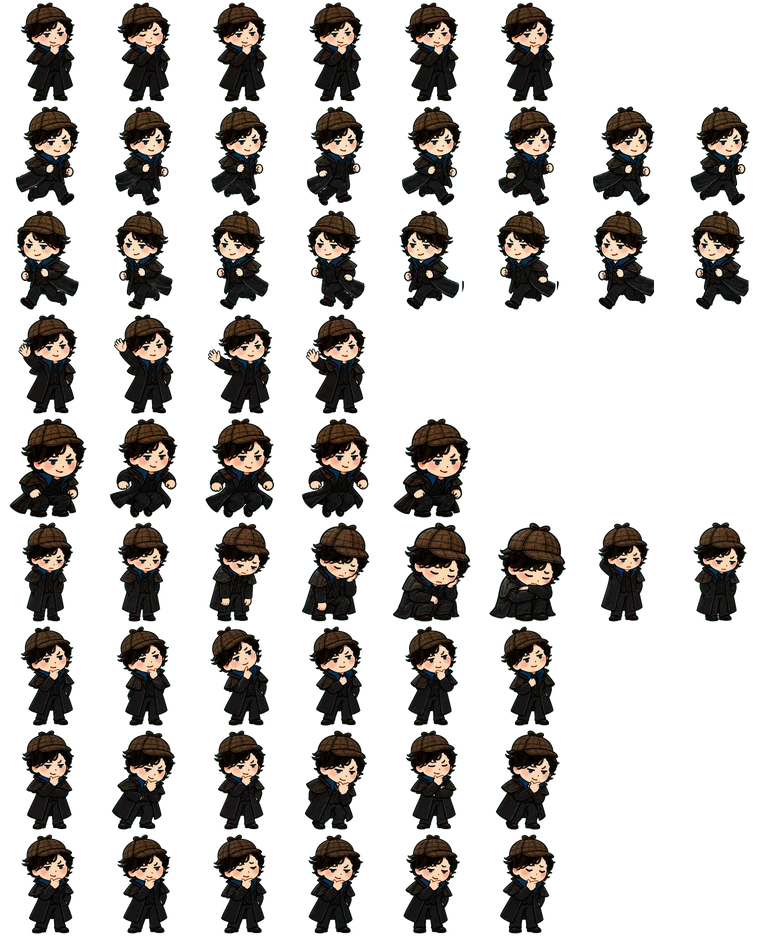
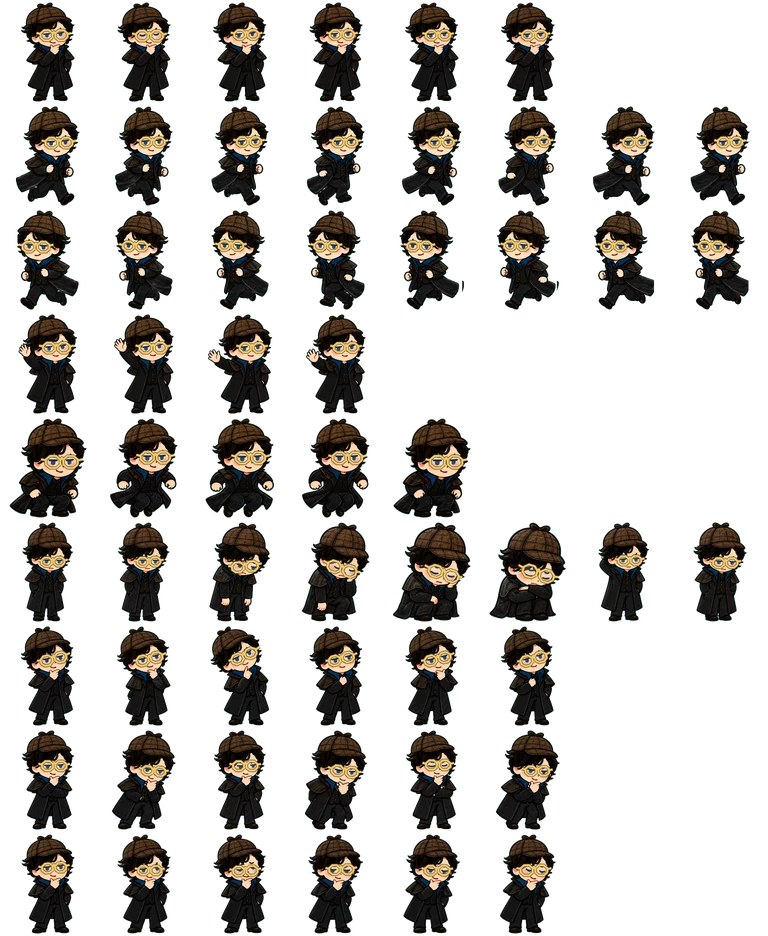
Sherlock: glasses drawn into every sprite frame, gold in the ASCII, cleaner frame blending

diff --git a/js/sherlock.js b/js/sherlock.js
@@ -1,7 +1,8 @@
 /* Sherlock — the same character as Al-Haitham's desktop pet (deerstalker, black coat, blue collar,
    the smug thinking pose), redrawn live as coloured ASCII. He lives on the whole page, not in one box.
 
-   Every animation of the pet is used — idle, walk right / left, wave, jump, the dramatic sit-down,
+   His glasses (Al-Haitham's own: thin gold wire, octagonal lenses) are drawn into every frame of the
+   sprite, so they are part of him and move with every pose. Every animation of the pet is used — idle, walk right / left, wave, jump, the dramatic sit-down,
    wait, think, review — and consecutive frames are cross-faded on the glyph grid, so limbs and coat
    move smoothly instead of snapping. On top: squash and stretch, tilt, springs, footprints, pipe smoke.
 
@@ -40,15 +41,13 @@
   var bubble = layer.querySelector('.sh-bubble'), btext = bubble.querySelector('.sh-t'), hit = layer.querySelector('.sh-hit');
 
   // sprite sheet: 8 x 9 frames of 96 x 104
-  var sheet = new Image(); sheet.src = 'img/sherlock.webp';
+  var sheet = new Image(); sheet.src = 'img/sherlock.webp?v=69';
   var FW = 96, FHH = 104;
   var AN = {
     idle: { r: 0, n: 6, fps: 5 }, runR: { r: 1, n: 8, fps: 9 }, runL: { r: 2, n: 8, fps: 9 }, wave: { r: 3, n: 4, fps: 7 },
     jump: { r: 4, n: 5, fps: 9 }, fail: { r: 5, n: 8, fps: 6.5 }, wait: { r: 6, n: 6, fps: 5 }, think: { r: 7, n: 6, fps: 5 }, review: { r: 8, n: 6, fps: 5 }
   };
-  var IDLE_FACING = 1, FOOT = 0.978;
-  // eye positions per frame [leftX, rightX, y, faceW] (0..1 of the frame) - his glasses sit here
-  var EYEPOS = [[[0.4429,0.6203,0.3221,0.2917],[0.4376,0.6156,0.3269,0.2865],[0.4426,0.6209,0.3221,0.2865],[0.4409,0.6183,0.3221,0.2812],[0.4416,0.6203,0.3221,0.2865],[0.4408,0.6174,0.3269,0.2917]],[[0.4798,0.6678,0.351,0.3021],[0.4651,0.6428,0.3462,0.2865],[0.4662,0.6426,0.3462,0.2917],[0.465,0.6398,0.3413,0.2917],[0.4752,0.6498,0.3413,0.2917],[0.4789,0.6504,0.3413,0.2865],[0.4884,0.6665,0.3462,0.2917],[0.4807,0.6536,0.3462,0.2865]],[[0.3121,0.5001,0.351,0.3021],[0.348,0.5254,0.3462,0.2865],[0.3466,0.527,0.3462,0.2917],[0.3442,0.523,0.3413,0.2917],[0.3079,0.4869,0.3413,0.2917],[0.324,0.4986,0.3413,0.2917],[0.3321,0.5117,0.3462,0.2917],[0.3506,0.5276,0.3462,0.2917]],[[0.3633,0.5761,0.3269,0.4635],[0.3633,0.5761,0.3269,0.4635],[0.3633,0.5761,0.3269,0.4635],[0.3633,0.5761,0.3269,0.4635]],[[0.4726,0.6627,0.3702,0.3281],[0.4726,0.6627,0.3702,0.3281],[0.4646,0.6657,0.375,0.3385],[0.4772,0.6718,0.375,0.3281],[0.4772,0.6718,0.375,0.3281]],[[0.4429,0.6203,0.3221,0.2917],[0.4429,0.6203,0.3221,0.2917],[0.4329,0.6103,0.3571,0.2917],null,null,null,[0.4429,0.6203,0.3221,0.2917],[0.4429,0.6203,0.3221,0.2917]],[[0.4392,0.6161,0.3269,0.2812],[0.4464,0.624,0.3173,0.2708],[0.429,0.5858,0.3029,0.2656],[0.4394,0.605,0.3125,0.2708],[0.4497,0.6242,0.3221,0.276],[0.4497,0.6242,0.3221,0.276]],[[0.4429,0.6203,0.3221,0.2917],[0.4429,0.6203,0.3221,0.2917],[0.4429,0.6203,0.3221,0.2917],[0.4429,0.6203,0.3221,0.2917],[0.4429,0.6203,0.3221,0.2917],[0.4429,0.6203,0.3221,0.2917]],[[0.4522,0.6258,0.3462,0.2812],[0.4522,0.6258,0.3462,0.2812],[0.447,0.6258,0.3413,0.2812],[0.4241,0.6039,0.3654,0.2969],[0.4513,0.6204,0.3798,0.2917],[0.4513,0.6204,0.3798,0.2917]]];
+  var IDLE_FACING = 1, FOOT = 0.978, GOLD_D = '#f4d27a', GOLD_L = '#8a6420';
   var ROWS = 66, COLS = Math.round(ROWS * FW / FHH);
   var off = document.createElement('canvas'); off.width = COLS; off.height = ROWS;
   var o = off.getContext('2d', { willReadFrequently: true });
@@ -267,7 +266,7 @@
     var c = colCache[key]; if (c) return c;
     var L = (0.299 * r + 0.587 * g + 0.114 * b) / 255;
     if (dk) { var k = L < 0.2 ? 0.56 : L < 0.4 ? 0.4 : 0.14; r += (255 - r) * k; g += (255 - g) * k; b += (255 - b) * k; }
-    else { r *= 0.72; g *= 0.72; b *= 0.72; }
+    else { r *= 0.6; g *= 0.6; b *= 0.6; }
     return (colCache[key] = 'rgb(' + Math.round(r) + ',' + Math.round(g) + ',' + Math.round(b) + ')');
   }
 
@@ -314,6 +313,8 @@
     var f = isFail ? Math.min(S.af, an.n - 1.001) : ((S.af % an.n) + an.n) % an.n;
     var i0 = Math.floor(f), i1 = isFail ? Math.min(i0 + 1, an.n - 1) : (i0 + 1) % an.n, ft = f - i0;
     if (posed) { i0 = Math.round(f) % an.n; i1 = i0; ft = 0; }
+    // blend only around the middle of each frame: smooth motion, no doubled glasses or limbs
+    ft = clamp((ft - 0.38) / 0.24, 0, 1); ft = ft * ft * (3 - 2 * ft);
     var run = S.anim === 'runR' || S.anim === 'runL', turn = Math.max(0.14, Math.abs(S.sx));
     var mx = run ? turn : (S.sx < 0 ? -turn : turn) * IDLE_FACING;
     var calm = S.anim === 'idle' || S.anim === 'review' || S.anim === 'think' || S.anim === 'wait';
@@ -338,11 +339,14 @@
       var dens = dk ? 0.3 + 0.7 * Lm : 0.34 + 0.66 * (1 - Lm);
       var gi = Math.round(dens * (RAMP.length - 1)) - (((x * 7 + y * 13) % 3) === 0 ? 1 : 0);
       ctx.globalAlpha = Math.min(1, (al / 255) * 1.15);
+      // his gold glasses keep their own bright metal colour and a solid glyph
+      if (r > 150 && g > 110 && b < g * 0.72 && r - b > 80) { ctx.fillStyle = dk ? GOLD_D : GOLD_L; ctx.globalAlpha = 1; ctx.fillText(((x + y) & 1) ? '#' : '@', ox + x * cp, oy + y * cp); continue; }
       ctx.fillStyle = colour(r, g, b, dk);
-      ctx.fillText(RAMP[clamp(gi, 2, RAMP.length - 1)], ox + x * cp, oy + y * cp);
+      var gch = RAMP[clamp(gi, 2, RAMP.length - 1)];
+      ctx.fillText(gch, ox + x * cp, oy + y * cp);
+      if (!dk) { ctx.strokeStyle = ctx.fillStyle; ctx.lineWidth = cp * 0.28; ctx.strokeText(gch, ox + x * cp, oy + y * cp); }
     }
     ctx.globalAlpha = 1;
-    drawGlasses(an, i0, i1, ft, mx * sqx, sqy, ox, oy, cp, dk, now);
     var facing = S.dir;
     SK.pipe = typed.full && S.mode === 'idle' ? { x: S.x + facing * 26 * u, y: fy - FH * 0.98 } : null;
 
@@ -389,50 +393,6 @@
     hit.style.display = '';
     hit.style.transform = 'translate(' + (S.x - hw / 2).toFixed(0) + 'px,' + (fy - hh).toFixed(0) + 'px)';
     hit.style.width = hw + 'px'; hit.style.height = hh.toFixed(0) + 'px';
-  }
-  // his own glasses: thin gold wire, octagonal lenses, a bridge and one temple. Drawn crisp over the ASCII.
-  function octo(cx, cy, rx, ry) {
-    ctx.beginPath();
-    for (var k = 0; k < 8; k++) { var a = Math.PI / 8 + k * Math.PI / 4, x = cx + Math.cos(a) * rx, y = cy + Math.sin(a) * ry; if (k) ctx.lineTo(x, y); else ctx.moveTo(x, y); }
-    ctx.closePath();
-  }
-  function drawGlasses(an, i0, i1, ft, kx, ky, ox, oy, cp, dk, now) {
-    var row = EYEPOS[an.r]; if (!row) return;
-    var a = row[i0], b = row[i1] || a; if (!a || !b) return;
-    var e = [0, 1, 2, 3].map(function (k) { return lerp(a[k], b[k], ft); });
-    var c = Math.cos(S.tilt), sn = Math.sin(S.tilt);
-    function P(fx, fyN) {
-      var lx = (fx - 0.5) * COLS * kx, ly = (fyN - FOOT) * ROWS * ky;
-      return { x: ox + (COLS / 2 + lx * c - ly * sn) * cp, y: oy + (ROWS * FOOT + lx * sn + ly * c) * cp };
-    }
-    var L = P(e[0], e[2]), R = P(e[1], e[2]);
-    var dist = Math.hypot(R.x - L.x, R.y - L.y), rx = Math.max(dist * 0.43, 3 * u), ry = rx * 0.84;
-    var ang = Math.atan2(R.y - L.y, R.x - L.x); if (Math.abs(ang) > Math.PI / 2) ang += Math.PI;
-    var gold = dk ? '#e2c27a' : '#8a6420', lw = Math.max(1.1, cp * 0.5);
-    ctx.save();
-    ctx.lineJoin = 'round'; ctx.lineCap = 'round';
-    [L, R].forEach(function (q, idx) {
-      ctx.save(); ctx.translate(q.x, q.y); ctx.rotate(ang);
-      octo(0, 0, rx, ry);
-      ctx.fillStyle = dk ? 'rgba(170,215,255,0.10)' : 'rgba(120,170,220,0.12)'; ctx.fill();
-      ctx.save(); ctx.clip();
-      // a glint that sweeps across now and then
-      var gt = ((now / 1000 + idx * 0.12) % 4.2) / 0.7;
-      if (gt < 1) { ctx.strokeStyle = 'rgba(255,255,255,' + (0.55 * Math.sin(Math.PI * gt)).toFixed(2) + ')'; ctx.lineWidth = rx * 0.35; ctx.beginPath(); var gx = -rx * 1.6 + gt * rx * 3.2; ctx.moveTo(gx - ry, ry); ctx.lineTo(gx + ry, -ry); ctx.stroke(); }
-      // thinking: a green scan line runs down the lenses
-      if (typed.full || S.engaged) { var sy2 = -ry + ((now / 900) % 1) * ry * 2; ctx.fillStyle = dk ? 'rgba(74,222,128,0.55)' : 'rgba(21,128,61,0.5)'; ctx.fillRect(-rx, sy2, rx * 2, Math.max(1, lw * 0.8)); }
-      ctx.restore();
-      octo(0, 0, rx, ry); ctx.strokeStyle = gold; ctx.lineWidth = lw; ctx.stroke();
-      ctx.restore();
-    });
-    // bridge, slightly arched
-    var ux = Math.cos(ang), uy = Math.sin(ang), mxp = (L.x + R.x) / 2, myp = (L.y + R.y) / 2;
-    ctx.strokeStyle = gold; ctx.lineWidth = lw;
-    ctx.beginPath(); ctx.moveTo(L.x + ux * rx * 0.92, L.y + uy * rx * 0.92 - ry * 0.25); ctx.quadraticCurveTo(mxp + uy * ry * 0.35, myp - ux * ry * 0.35 - ry * 0.35, R.x - ux * rx * 0.92, R.y - uy * rx * 0.92 - ry * 0.25); ctx.stroke();
-    // one temple, toward the back of his head
-    var back = (S.anim === 'runR' || S.anim === 'runL') ? -S.dir : (kx < 0 ? 1 : -1), T = back < 0 ? L : R, sgn = back < 0 ? -1 : 1;
-    ctx.beginPath(); ctx.moveTo(T.x + sgn * ux * rx, T.y + sgn * uy * rx - ry * 0.3); ctx.lineTo(T.x + sgn * ux * rx * 2.3, T.y + sgn * uy * rx * 2.3 - ry * 0.15); ctx.stroke();
-    ctx.restore();
   }
   function hideUI() { hit.style.display = 'none'; }
 

diff --git a/index.html b/index.html
@@ -69,7 +69,7 @@
     </script>
 
     <link rel="stylesheet" href="fonts/fonts.css" />
-    <link rel="stylesheet" href="css/site.css?v=65" />
+    <link rel="stylesheet" href="css/site.css?v=69" />
 </head>
 
 <body>
@@ -230,17 +230,17 @@
     </div>
     <div class="lightbox" id="lightbox" hidden><figure><img alt="" /><figcaption></figcaption></figure></div>
 
-    <script src="js/content.js?v=65"></script>
-    <script src="js/eyes-data.js?v=65"></script>
-    <script src="js/ascii.js?v=65"></script>
-    <script src="js/fx.js?v=65"></script>
-    <script src="js/space-icons.js?v=65"></script>
-    <script src="js/glyph.js?v=65"></script>
-    <script src="js/sherlock.js?v=65"></script>
-    <script src="js/flag.js?v=65"></script>
-    <script src="js/app.js?v=65"></script>
-    <script src="js/hold.js?v=65"></script>
-    <script src="js/term.js?v=65"></script>
+    <script src="js/content.js?v=69"></script>
+    <script src="js/eyes-data.js?v=69"></script>
+    <script src="js/ascii.js?v=69"></script>
+    <script src="js/fx.js?v=69"></script>
+    <script src="js/space-icons.js?v=69"></script>
+    <script src="js/glyph.js?v=69"></script>
+    <script src="js/sherlock.js?v=69"></script>
+    <script src="js/flag.js?v=69"></script>
+    <script src="js/app.js?v=69"></script>
+    <script src="js/hold.js?v=69"></script>
+    <script src="js/term.js?v=69"></script>
 </body>
 
 </html>
